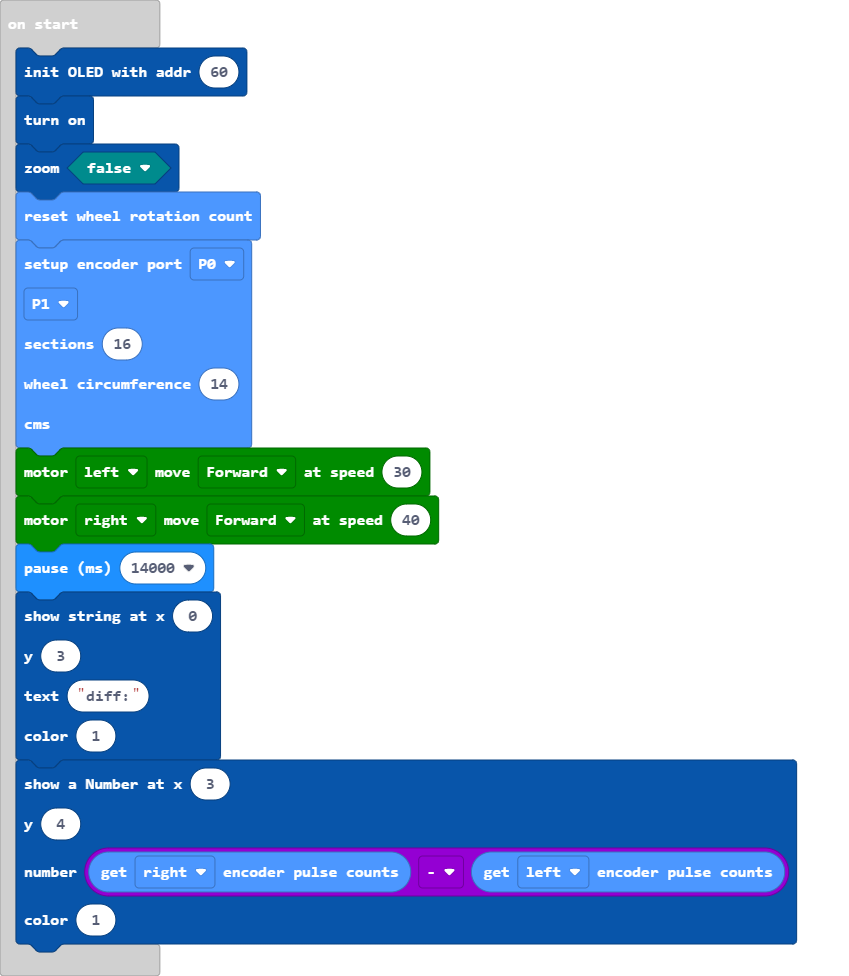
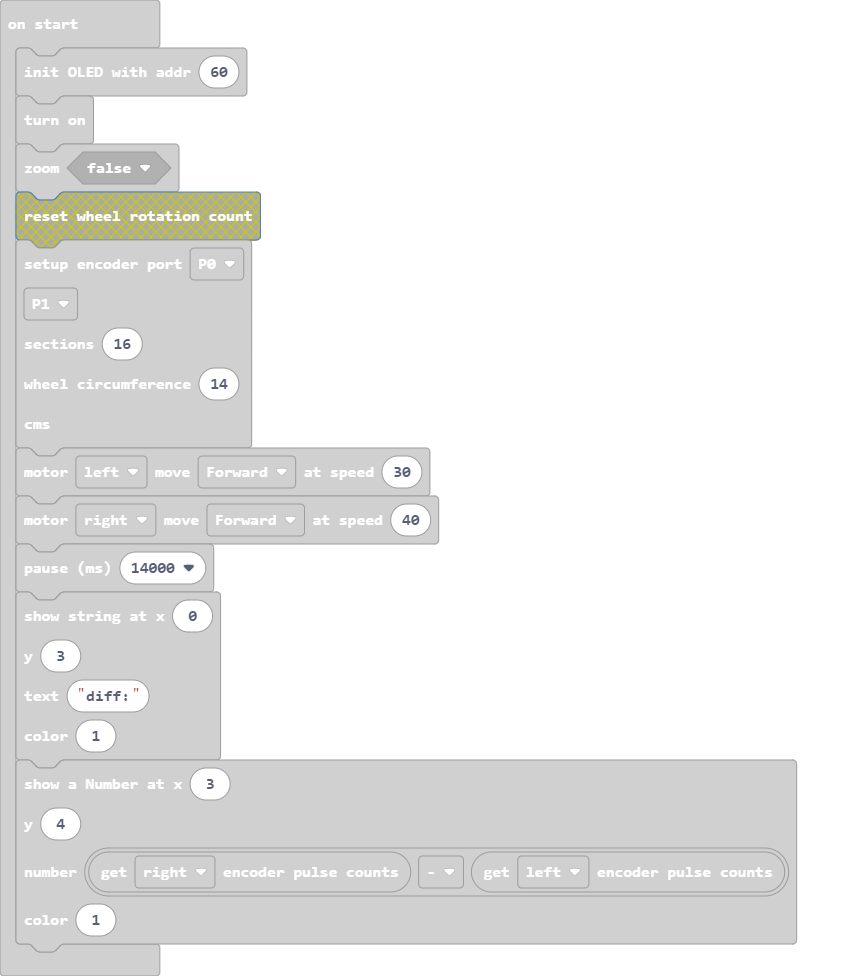
deleted 'reset wheel rotation count' block

diff --git a/main.ts b/main.ts
@@ -1,7 +1,6 @@
 OLED12864_I2C.init(60)
 OLED12864_I2C.on()
 OLED12864_I2C.zoom(false)
-OrientBit.resetWheelRotCnt()
 OrientBit.enableEncoder(
 DigitalPin.P0,
 DigitalPin.P1,
